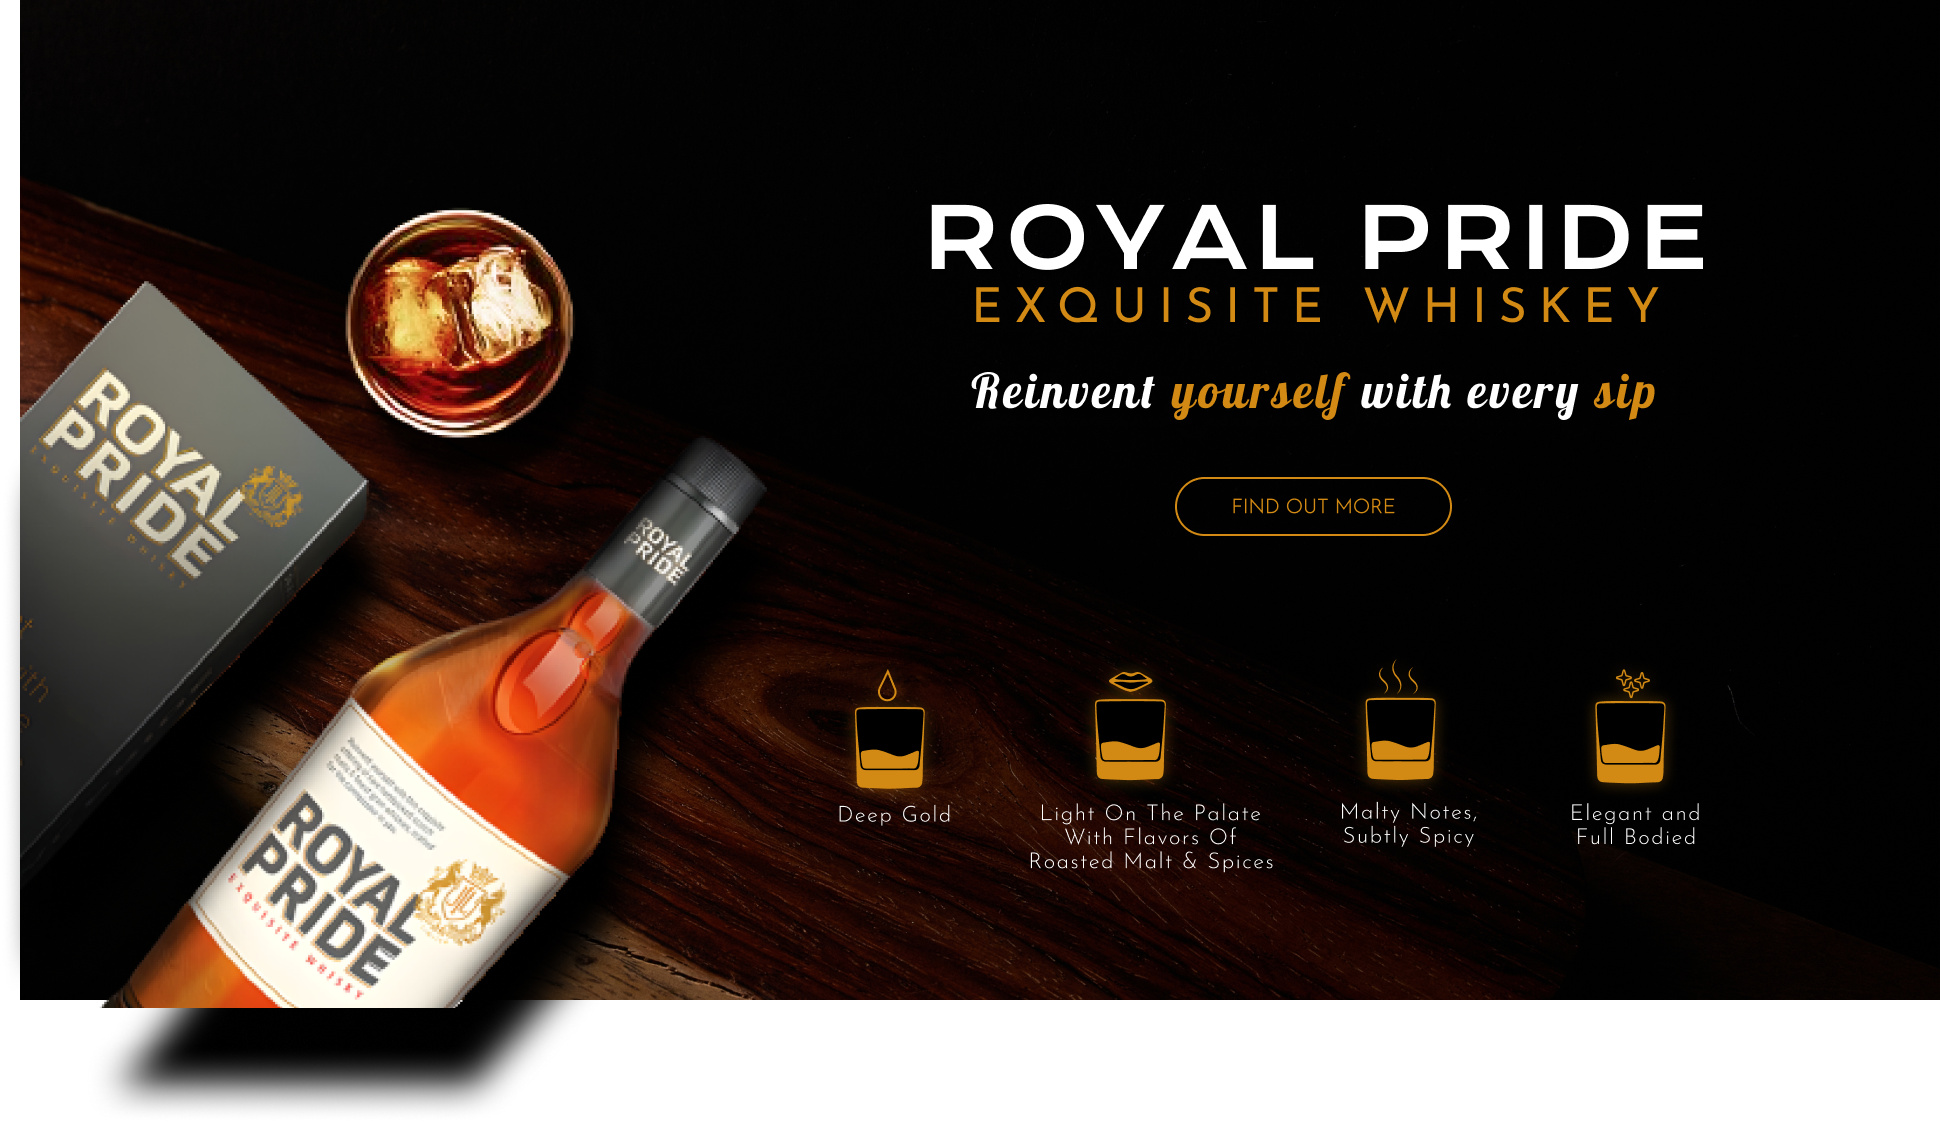
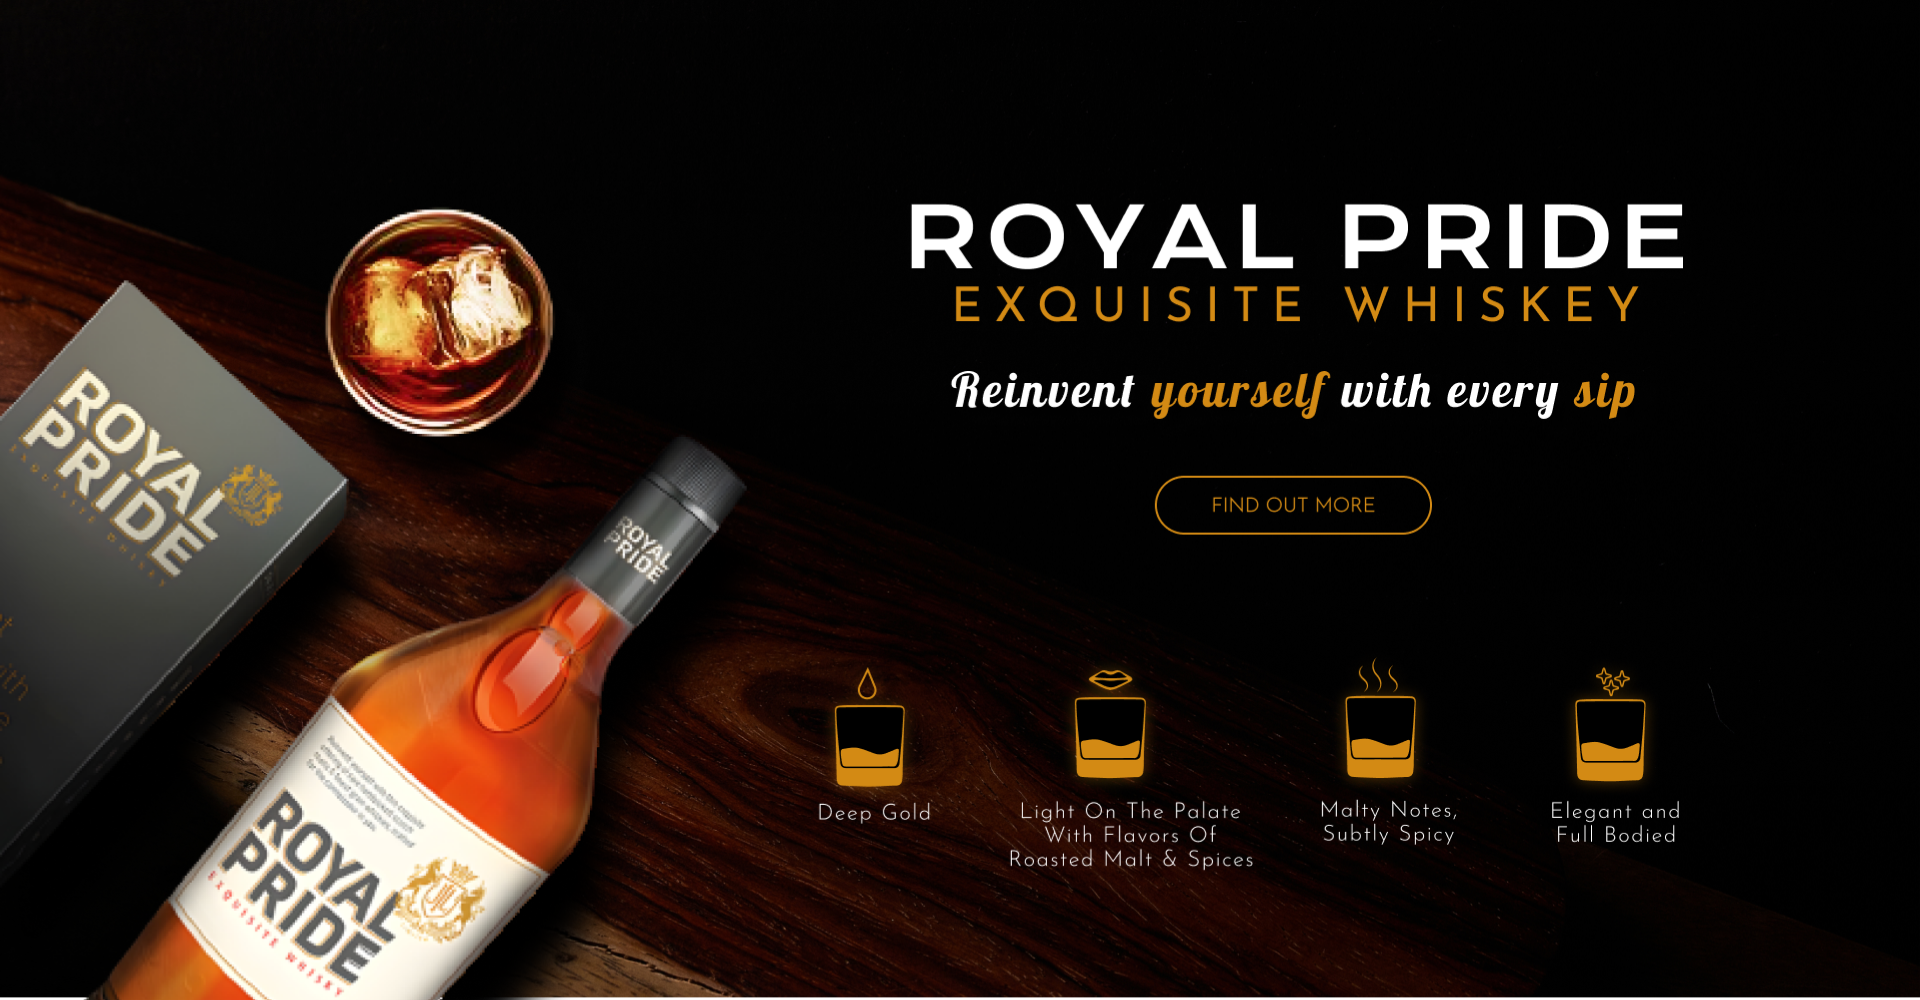
add updated scripts

diff --git a/src/Components/Footer/Footer.jsx b/src/Components/Footer/Footer.jsx
@@ -29,7 +29,7 @@ function Footer() {
                     <div className='footerInfo'>
                         <h1>MORE INFO</h1>
                         <Link to={'/Sustainability'}  className='contactParagraph'><p>Sustainability</p></Link>
-                        <Link to={'/Press'} className='contactParagraph'><p>Press</p></Link>
+                        <Link to={'/aboutUs/Press'} className='contactParagraph'><p>Press</p></Link>
                         <Link to={'/GlobalPresence'} className='contactParagraph'><p>Global Presence</p></Link>
                         <Link to={'/ContactUs'} className='contactParagraph'><p>Contact Us</p></Link>
                     </div>
@@ -42,8 +42,10 @@ function Footer() {
                 <p className='thirdParagraphInFooterRights'>Please do not share or forward with anyone under the legal drinking age.</p>
             </div>
             <div className='footerCredits footerCreditsText'>
-                <p className='allRightsparagraph'>All rights reserved. 2024. Designed by Webness</p>
-                <div style={{ justifyContent: 'space-between', display: 'flex' }}><Link to={'/PrivacyPolicy'} style={{ marginRight: 20, textDecoration:'none', color:'white' }}><span>Privacy Policy</span></Link> <Link to={'/Terms&Condition'} style={{ marginLeft: 20, textDecoration:'none', color:'white' }}>Terms And Conditions</Link></div>
+                <p className='allRightsparagraph'>All rights reserved. 2024.</p>
+                <div style={{ justifyContent: 'space-between', display: 'flex' }}><Link to={'/PrivacyPolicy'} style={{ marginRight: 20, textDecoration:'none', color:'white' }}><span>Privacy Policy</span></Link> 
+                {/* <Link to={'/Terms&Condition'} style={{ marginLeft: 20, textDecoration:'none', color:'white' }}>Terms And Conditions</Link> */}
+            </div>
             </div>
         </footer >
     );

diff --git a/src/Components/Home/Home.jsx b/src/Components/Home/Home.jsx
@@ -300,14 +300,14 @@ function Home() {
       <img src={image3} class="d-block w-100" alt="image3" />
     </div>
   </div>
-  <button class="carousel-control-prev" type="button" data-bs-target="#carouselExampleIndicators" data-bs-slide="prev">
+  {/* <button class="carousel-control-prev" type="button" data-bs-target="#carouselExampleIndicators" data-bs-slide="prev">
     <span class="carousel-control-prev-icon" aria-hidden="true"></span>
     <span class="visually-hidden">Previous</span>
-  </button>
-  <button class="carousel-control-next" type="button" data-bs-target="#carouselExampleIndicators" data-bs-slide="next">
+  </button> */}
+  {/* <button class="carousel-control-next" type="button" data-bs-target="#carouselExampleIndicators" data-bs-slide="next">
     <span class="carousel-control-next-icon" aria-hidden="true"></span>
     <span class="visually-hidden">Next</span>
-  </button>
+  </button> */}
 </div>
            </section>
             {/* //5 complete */}

diff --git a/src/main.jsx b/src/main.jsx
@@ -4,14 +4,16 @@ import ReactDOM from 'react-dom/client';
 import 'bootstrap/dist/css/bootstrap.min.css';
 import './index.css';
 import App from './App';
+import ScrollToTop from './scrollToTop';
 // import Login from './Components/LoginPage/Login';
  
 const root = ReactDOM.createRoot(document.getElementById('root'));
 root.render(
   <React.StrictMode>
     <HashRouter>
+      <ScrollToTop />
       <App />
-      </HashRouter>
+    </HashRouter>
   </React.StrictMode>
 );
  

diff --git a/src/Components/Home/Home.css b/src/Components/Home/Home.css
@@ -102,6 +102,10 @@
     /* aspect-ratio: 17 / 8.78; */
 }
 
+.d-block {
+    height: 100vh;
+}
+
 .smallImgDiv{
     display: flex;
     /* flex-wrap: wrap; */
